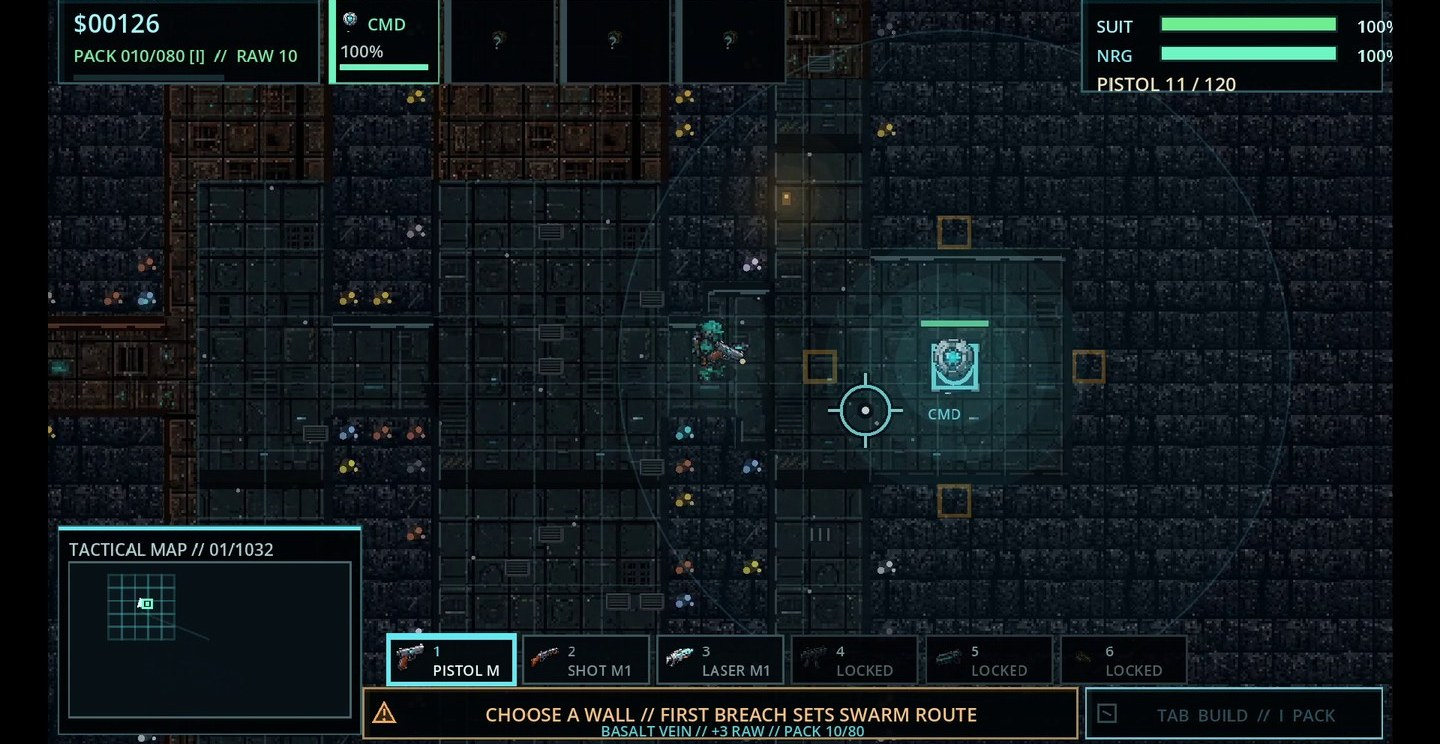
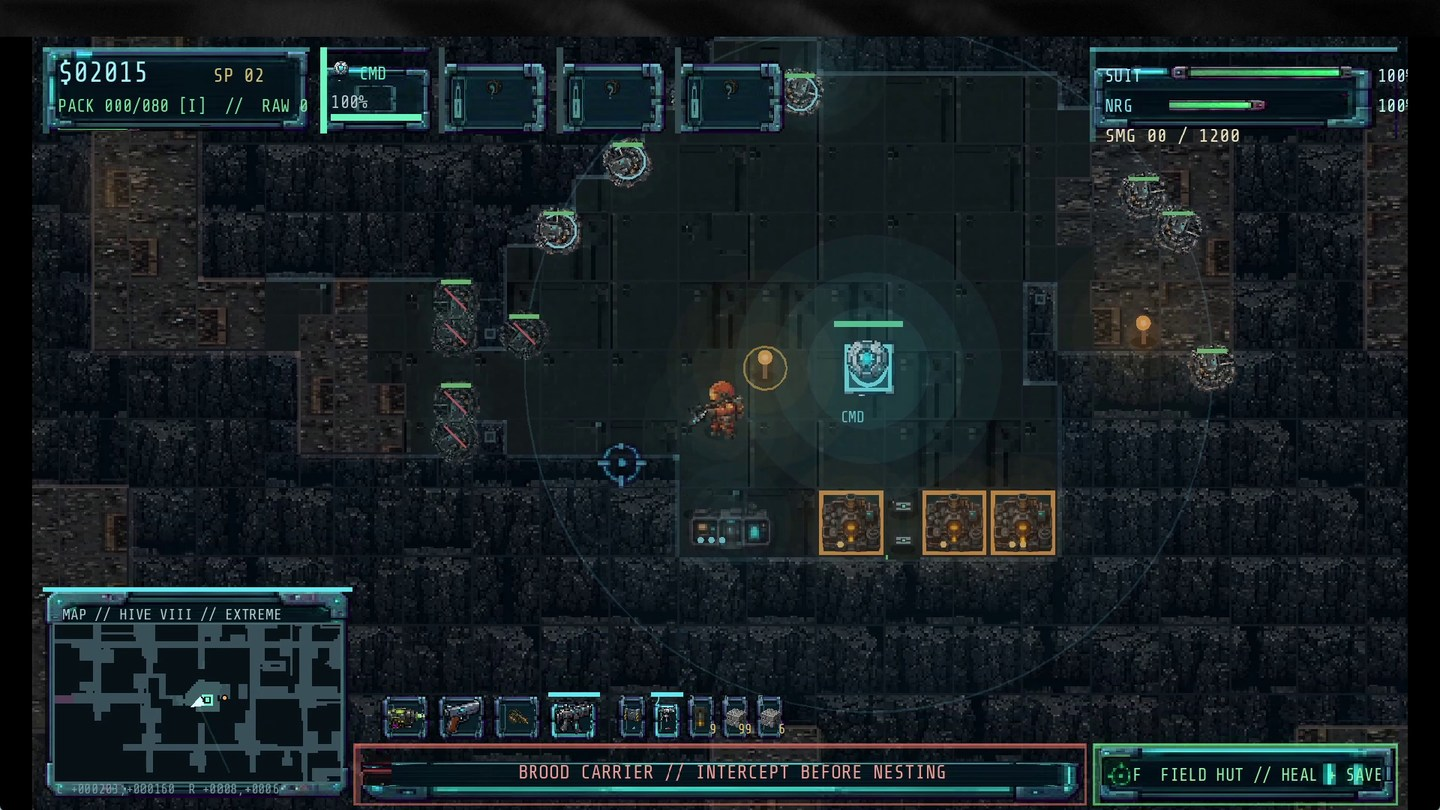
Refresh showcase with latest gameplay capture

diff --git a/README.md b/README.md
@@ -23,30 +23,30 @@ Digging changes the battlefield. Open a direct route for resources and you may a
 
 ## Gameplay in motion
 
-These short captures come from the playable Windows build. They show the current underground loop in motion: moving through the facility, reading the tactical map and resource state, and responding when a route turns hostile.
+These captures use the August 13, 2026 gameplay build. They show the underground map, the expanded loadout, a brood-carrier warning, and a weapon response in the tunnels.
 
 <table>
   <tr>
     <td width="50%" valign="top">
-      <p><strong>01 / DIG, BUILD, SURVIVE</strong></p>
-      <img src="assets/showcase/dig-build-survive.gif" width="100%" alt="Crawl Brawl gameplay moving through an excavated underground corridor while the tactical map, equipment, and incoming-hostile warning remain visible." />
-      <p><em>Track a tunnel network, manage equipment, and respond to a breach warning.</em></p>
+      <p><strong>01 / TRACK THE BROOD CARRIER</strong></p>
+      <img src="assets/showcase/dig-build-survive.gif" width="100%" alt="Latest Crawl Brawl gameplay build showing the Security Core room, a brood-carrier warning, expanded equipment bar, and tracked facility map." />
+      <p><em>Read the facility map and act on an incoming brood-carrier warning.</em></p>
     </td>
     <td width="50%" valign="top">
-      <p><strong>02 / THE FACILITY UNDER PRESSURE</strong></p>
-      <img src="assets/showcase/breach-response.gif" width="100%" alt="Crawl Brawl gameplay in a resource-rich underground room, with the player, tactical map, ammunition, and build controls visible." />
-      <p><em>Move between sectors and use the live HUD to read the state of the expedition.</em></p>
+      <p><strong>02 / HOLD THE TUNNELS</strong></p>
+      <img src="assets/showcase/breach-response.gif" width="100%" alt="Latest Crawl Brawl gameplay build showing the player using a fire weapon in the tunnels, with loadout, resources, and facility map visible." />
+      <p><em>Switch weapons and meet the threat inside the underground network.</em></p>
     </td>
   </tr>
 </table>
 
-<p align="center"><strong>FIELD CAPTURES / AUGUST 2026</strong><br />The footage is from active development and shows the game as it currently plays.</p>
+<p align="center"><strong>LATEST GAMEPLAY CAPTURE / AUGUST 13, 2026</strong><br />Footage from an active development build. Systems and presentation may change.</p>
 
 <table>
   <tr>
-    <td width="33%" valign="top"><img src="assets/showcase/core-room.jpg" width="100%" alt="Underground core room with the Security Core, player, resource readout, and tactical map." /><p align="center"><strong>CORE ROOM</strong><br />Read the facility and its resources.</p></td>
-    <td width="33%" valign="top"><img src="assets/showcase/tunnel-network.jpg" width="100%" alt="Excavated underground passage with the player, sector layout, equipment bar, and hostile warning." /><p align="center"><strong>TUNNEL NETWORK</strong><br />Shape the routes through the complex.</p></td>
-    <td width="33%" valign="top"><img src="assets/showcase/combat-response.jpg" width="100%" alt="Combat encounter in an underground corridor with the player aiming, equipment slots, and hostile warning." /><p align="center"><strong>BREACH RESPONSE</strong><br />Fight when the perimeter gives way.</p></td>
+    <td width="33%" valign="top"><img src="assets/showcase/core-room.jpg" width="100%" alt="Security Core room, defensive layout, current loadout, and facility map from the August 13 gameplay build." /><p align="center"><strong>COMMAND POST</strong><br />The core and its defenders under threat.</p></td>
+    <td width="33%" valign="top"><img src="assets/showcase/tunnel-network.jpg" width="100%" alt="Branching underground passage with tracked map, equipment bar, and brood-carrier warning." /><p align="center"><strong>UNDERGROUND ROUTES</strong><br />Navigate the connected tunnel network.</p></td>
+    <td width="33%" valign="top"><img src="assets/showcase/combat-response.jpg" width="100%" alt="Fire weapon effect in an underground tunnel, with the player loadout and facility map visible." /><p align="center"><strong>WEAPON RESPONSE</strong><br />Use the loadout to meet a tunnel threat.</p></td>
   </tr>
 </table>
 
